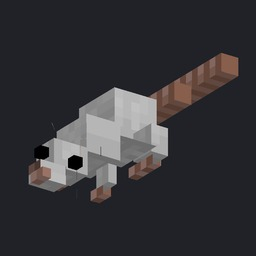
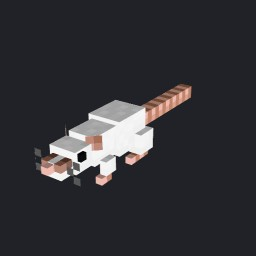
Rename Items: re-render the 3D previews from the .glb files
The supplied JPEGs drew chess pieces and the gargoyle with layers missing.
Rendered with model-viewer from each model's front; script kept for new items.

Changed region(s): [[0.0938, 0.1875, 0.9375, 0.8125]]

diff --git a/_dev/scripts/render-model-previews.js b/_dev/scripts/render-model-previews.js
@@ -1,0 +1,55 @@
+// Re-render the 3D item previews (assets/*.jpg) from their .glb with model-viewer in headless Chrome.
+// models.json's own previews draw some models with layers missing, so rerun this after new 3D items are added.
+// Usage: node _dev/scripts/render-model-previews.js minecraft/models   (ONLY=<name> or CAT=<category> to limit; ORBIT="215deg 65deg 110%" to override the angle)
+const http = require('http'), fs = require('fs'), path = require('path'), os = require('os');
+const { spawn } = require('child_process');
+const DIR = path.resolve(process.argv[2]);
+const items = JSON.parse(fs.readFileSync(path.join(DIR, 'models.json'), 'utf8')).items.filter(i => i.is_3d && i.model_3d && i.image && (!process.env.ONLY || i.name === process.env.ONLY) && (!process.env.CAT || i.category === process.env.CAT));
+const page = `<!doctype html><body style="margin:0;background:#000">
+<script type="module">
+await import('https://ajax.googleapis.com/ajax/libs/model-viewer/4.0.0/model-viewer.min.js');
+const items = ${JSON.stringify(items.map(i => ({ glb: i.model_3d, jpg: i.image, orbit: process.env.ORBIT || ((i.category === 'Rat' ? '35' : '215') + 'deg 65deg 110%') })))};
+// background colour from the corner of an existing preview, so new and old match
+const ref = new Image(); ref.src = '/' + items[0].jpg; await ref.decode();
+const c0 = document.createElement('canvas'); c0.width = c0.height = 1; const x0 = c0.getContext('2d'); x0.drawImage(ref, 0, 0, 1, 1, 0, 0, 1, 1);
+const [r, g, b] = x0.getImageData(0, 0, 1, 1).data; const bg = 'rgb(' + r + ',' + g + ',' + b + ')';
+for (const it of items) {
+  const mv = document.createElement('model-viewer');
+  mv.style.cssText = 'width:256px;height:256px;display:block';
+  mv.setAttribute('camera-orbit', it.orbit); // rats face +Z, chess pieces and statues face -Z
+  mv.setAttribute('interaction-prompt', 'none');
+  mv.setAttribute('shadow-intensity', '0');
+  const loaded = new Promise((ok, no) => { mv.addEventListener('load', ok, { once: true }); mv.addEventListener('error', no, { once: true }); });
+  mv.src = '/' + it.glb; document.body.append(mv);
+  try { await loaded; } catch (e) { await fetch('/done?err=' + encodeURIComponent(it.glb)); mv.remove(); continue; }
+  mv.model.materials.forEach(m => [m.pbrMetallicRoughness.baseColorTexture, m.emissiveTexture].forEach(t => { const s = t && t.texture && t.texture.sampler; if (s) { s.setMagFilter(9728); s.setMinFilter(9728); } }));
+  await new Promise(r => setTimeout(r, 800));
+  const blob = await mv.toBlob({ mimeType: 'image/png', idealAspect: true });
+  const img = await createImageBitmap(blob);
+  const c = document.createElement('canvas'); c.width = c.height = 256; const x = c.getContext('2d');
+  x.fillStyle = bg; x.fillRect(0, 0, 256, 256); x.drawImage(img, 0, 0, 256, 256);
+  const jpg = await new Promise(r => c.toBlob(r, 'image/jpeg', 0.9));
+  await fetch('/save?f=' + encodeURIComponent(it.jpg), { method: 'POST', body: jpg });
+  mv.remove();
+}
+await fetch('/done');
+</script>`;
+const srv = http.createServer((q, s) => {
+    const u = new URL(q.url, 'http://x');
+    if (u.pathname === '/') return s.end(page);
+    if (u.pathname === '/save') {
+        const f = path.join(DIR, u.searchParams.get('f'));
+        if (!f.startsWith(DIR + path.sep) || !f.endsWith('.jpg')) return s.end('no');
+        const parts = []; q.on('data', d => parts.push(d)).on('end', () => { fs.writeFileSync(f, Buffer.concat(parts)); console.log('saved', path.basename(f)); s.end('ok'); });
+        return;
+    }
+    if (u.pathname === '/done') { s.end('ok'); if (u.searchParams.get('err')) return console.log('FAILED', u.searchParams.get('err')); console.log('done'); chrome.kill(); srv.close(); return; }
+    const f = path.join(DIR, decodeURIComponent(u.pathname));
+    if (!f.startsWith(DIR + path.sep) || !fs.existsSync(f)) { s.statusCode = 404; return s.end(); }
+    s.setHeader('Content-Type', f.endsWith('.glb') ? 'model/gltf-binary' : f.endsWith('.png') ? 'image/png' : 'image/jpeg');
+    fs.createReadStream(f).pipe(s);
+}).listen(8231, '127.0.0.1');
+const profile = fs.mkdtempSync(path.join(os.tmpdir(), 'mdl-render-'));
+const chrome = spawn('C:/Program Files/Google/Chrome/Application/chrome.exe', ['--headless=new', `--user-data-dir=${profile}`, '--no-first-run', '--enable-unsafe-swiftshader', '--use-angle=swiftshader', '--ignore-gpu-blocklist', '--window-size=400,400', '--force-device-scale-factor=2', 'http://127.0.0.1:8231/'], { stdio: 'ignore' });
+setTimeout(() => { console.log('timeout'); chrome.kill(); process.exit(1); }, 180000);
+srv.on('close', () => process.exit(0));
